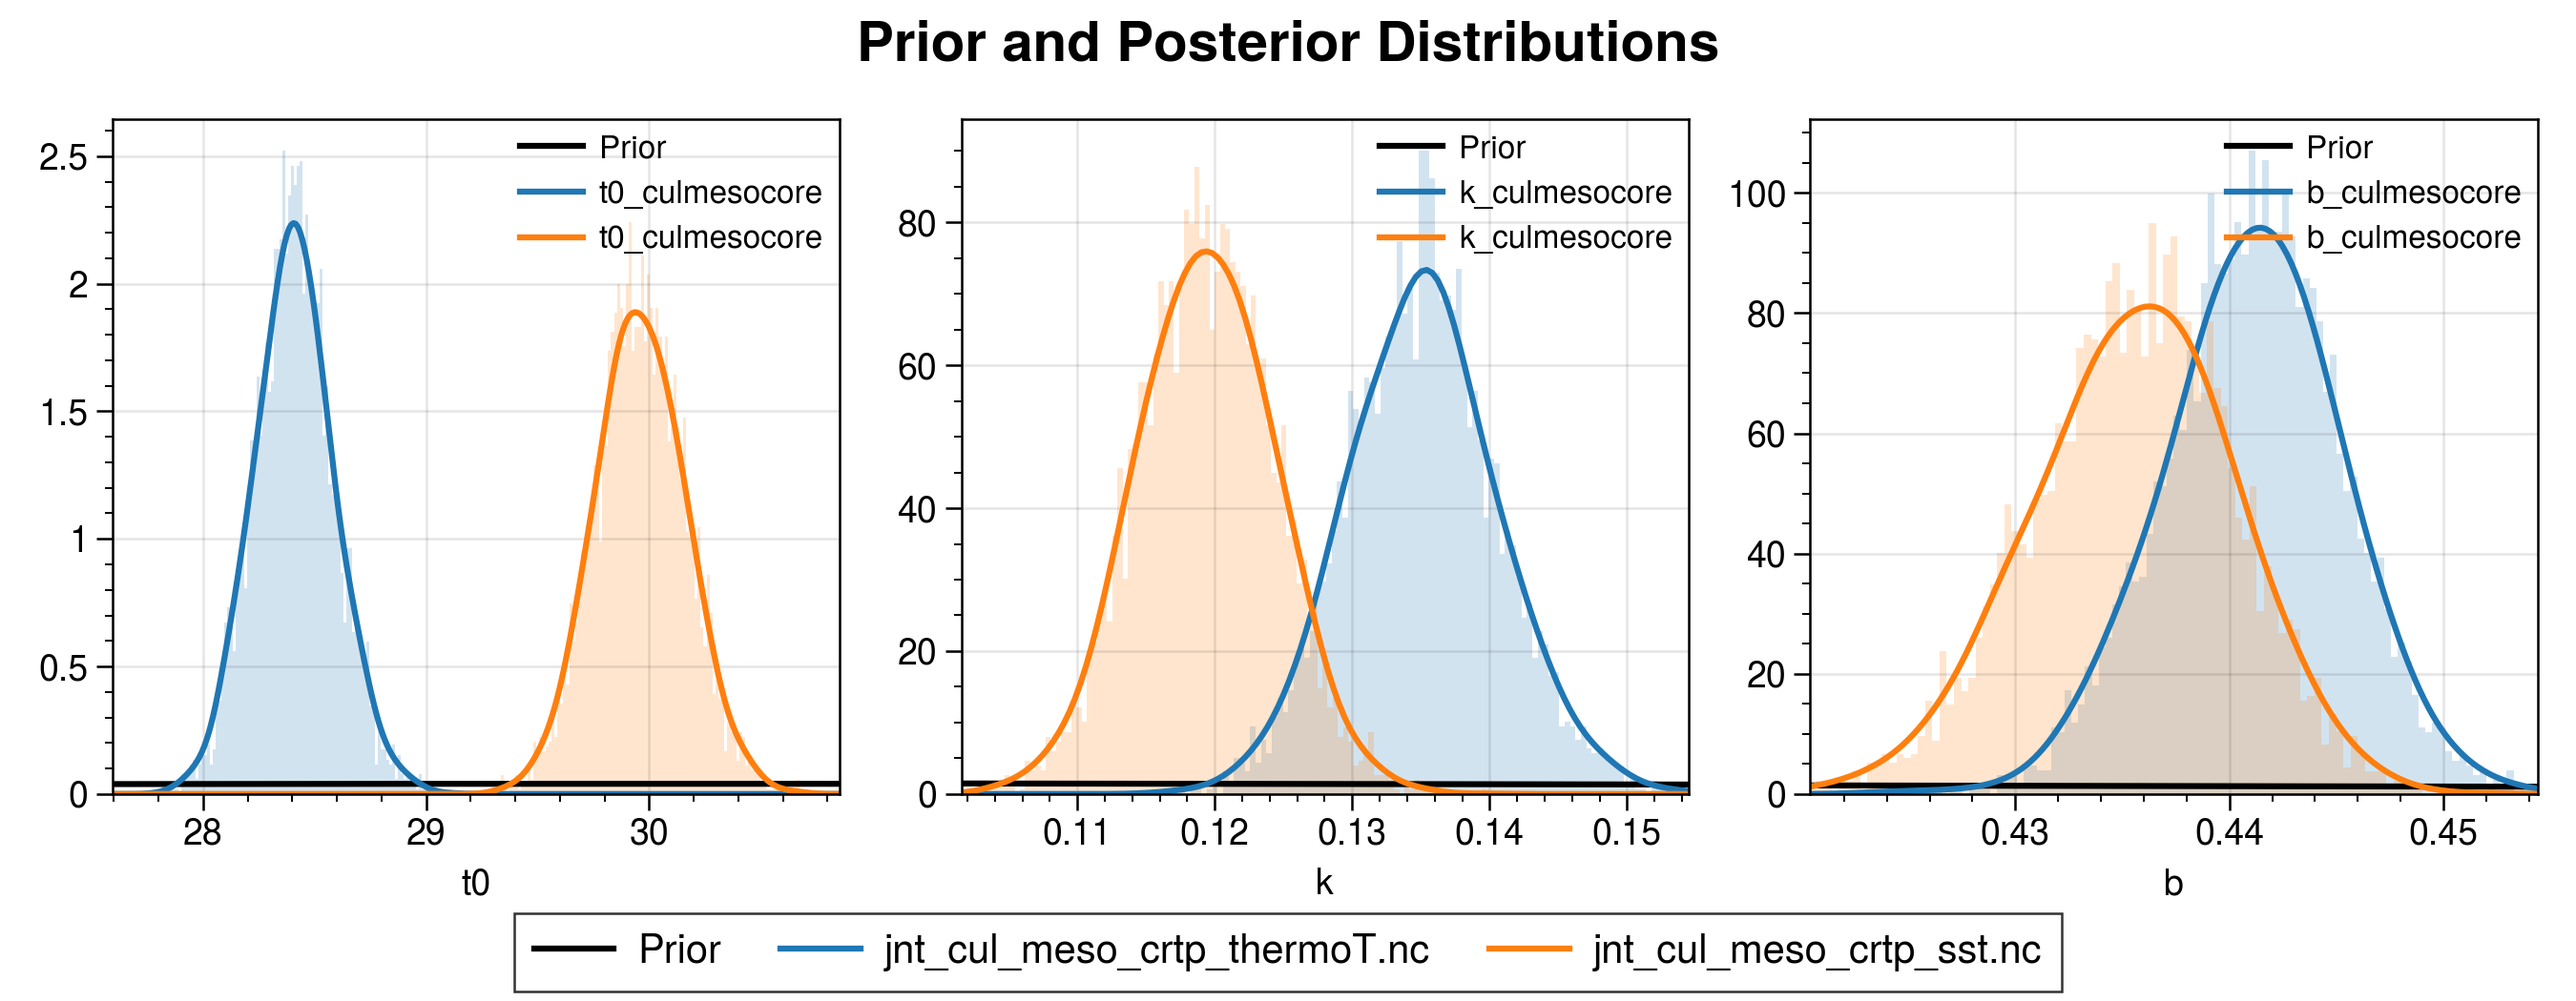
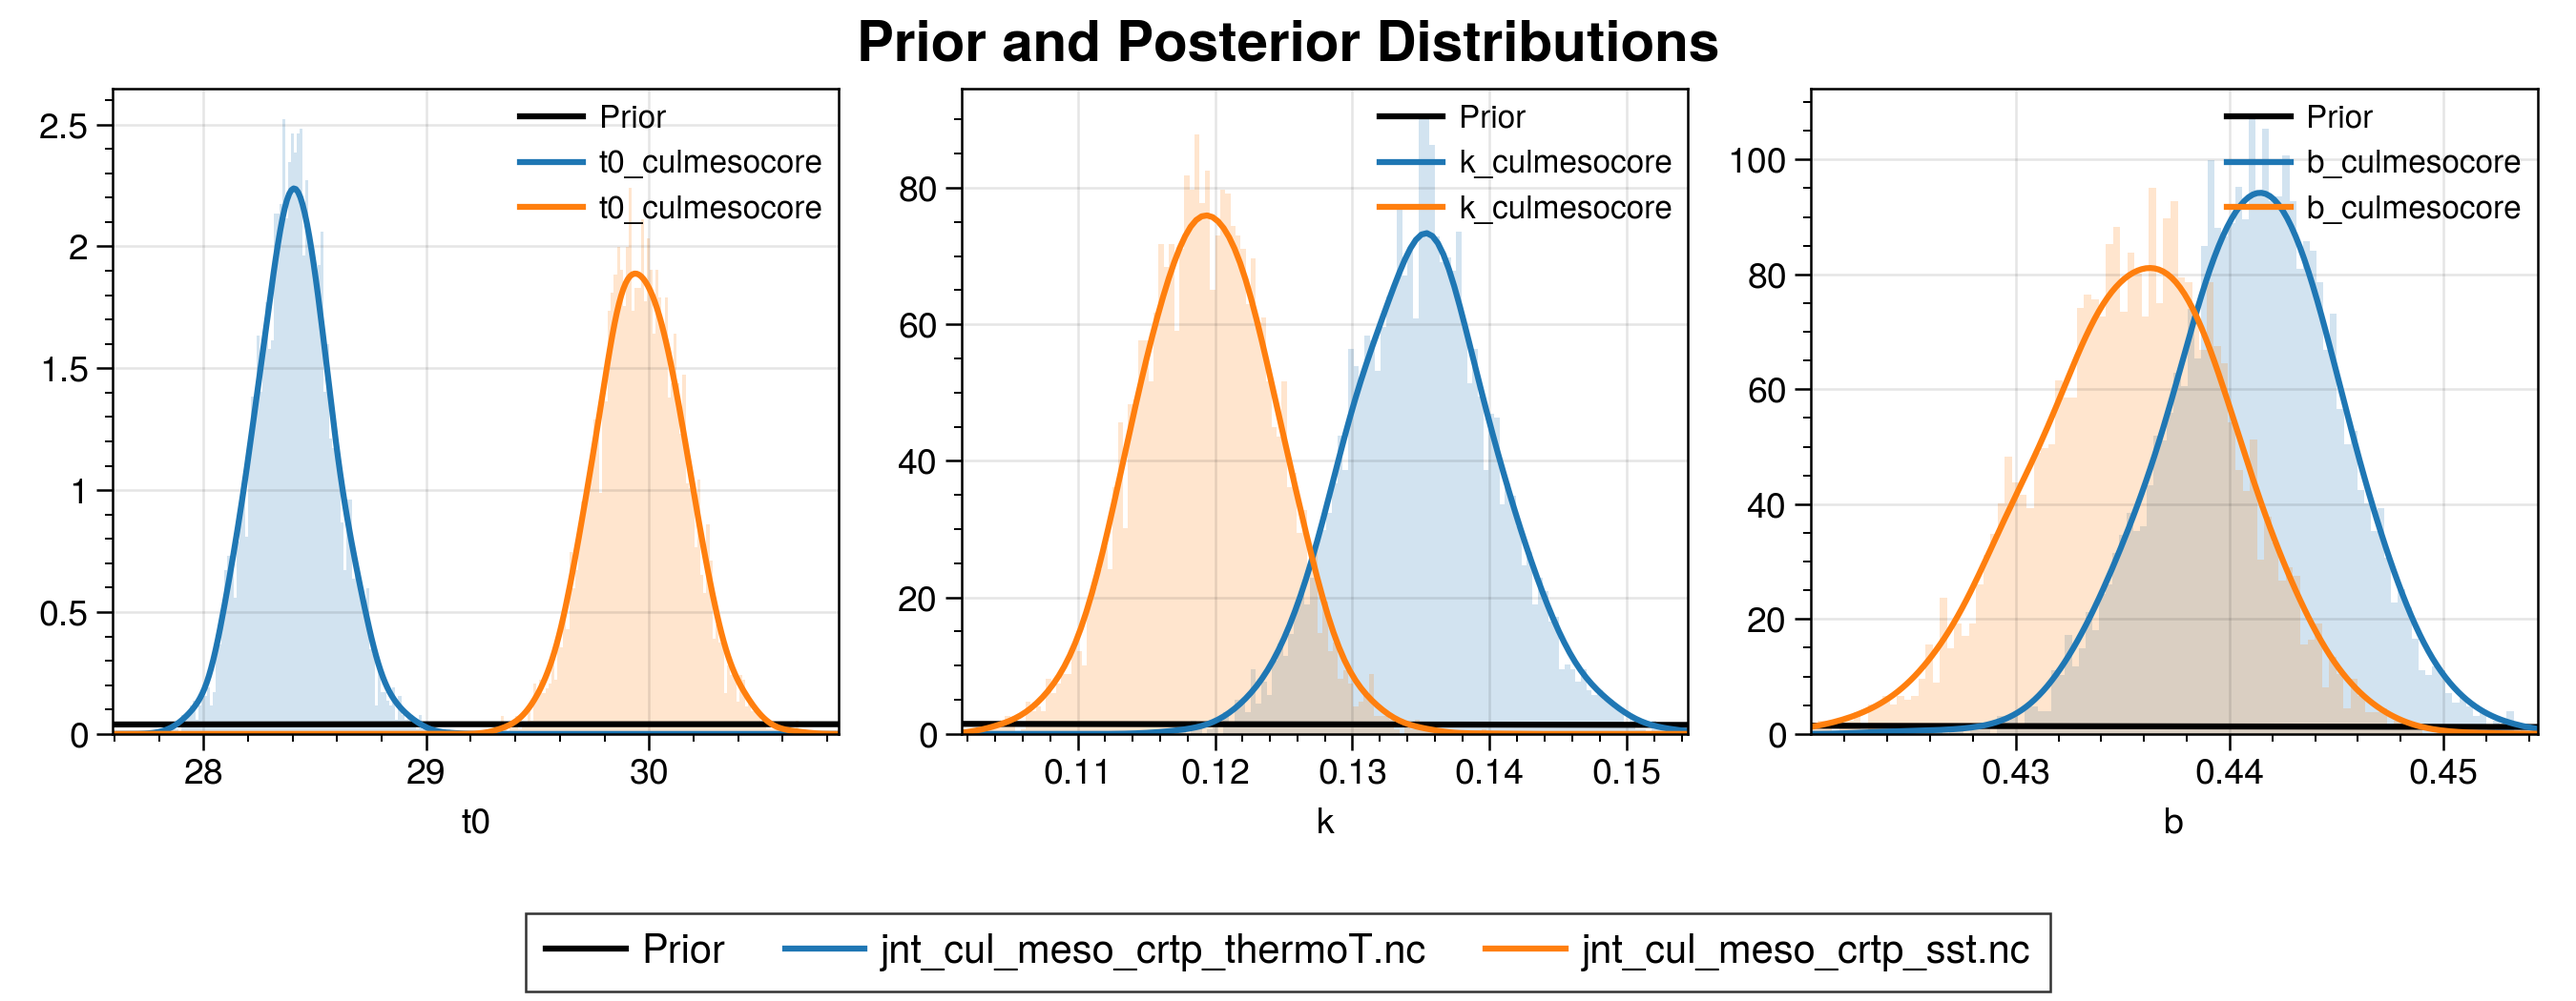
revise generator.py and detection.py

diff --git a/TEXAS/ensemble/detection.py b/TEXAS/ensemble/detection.py
@@ -1,3 +1,5 @@
+# TEXAS/ensemble/detection.py
+
 import xarray as xr
 from ..models.logistics import (
     logistic_fixed_upper,
@@ -9,39 +11,72 @@ from ..models.multivariate import (
 )
 from collections import Counter
 
+# --- Shared suffix utilities ---
+SUFFIX_PRIORITY = ["crtp", "culmesocore", "culmeso", "meso", "cul", "univ", ""]
+
+def available_suffixes(posterior_ds: xr.Dataset, param_basenames):
+    """
+    Return a set of suffixes present for ANY of the given param basenames.
+    Supports both 'base_suffix' and no-suffix ('base') styles.
+    """
+    vars_ = set(posterior_ds.data_vars)
+    suffixes = set()
+    for base in param_basenames:
+        if base in vars_:
+            suffixes.add("")  # no-suffix present
+        prefix = f"{base}_"
+        for v in vars_:
+            if v.startswith(prefix):
+                suffixes.add(v.split(prefix, 1)[1])
+    return suffixes
+
+def choose_suffix(posterior_ds: xr.Dataset, param_basenames, preferred: str | None = None):
+    """
+    Choose a suffix using global priority from SUFFIX_PRIORITY,
+    constrained to suffixes that actually exist for the given basenames.
+    If 'preferred' is supplied, require it to be present.
+    """
+    have = available_suffixes(posterior_ds, param_basenames)
+    if preferred is not None:
+        if preferred in have:
+            return preferred
+        raise ValueError(f"Requested suffix '{preferred}' not found. Available: {sorted(have)}")
+
+    for s in SUFFIX_PRIORITY:
+        if s in have:
+            return s
+    raise ValueError(f"No compatible suffix found. Available: {sorted(have)}")
+
 def detect_model_and_params(posterior_ds: xr.Dataset, suffix: str = None):
     """
     Auto-detect which logistic model and parameters to use.
-    If suffix is None, will guess based on a defined priority order.
+    Uses a shared suffix priority via choose_suffix().
     """
     vars_ = set(posterior_ds.data_vars)
 
-    # Guess suffix if not given
-    if suffix is None:
-        # Define preferred suffix order
-        priority_suffixes = ["crtp", "culmesocore", "culmeso", "meso", "cul", "univ"]
+    # Detect presence of optional parameter groups without assuming attrs
+    has_v_any   = ("v" in vars_) or any(v.startswith("v_") for v in vars_)
+    has_Q_any   = ("Q" in vars_) or any(v.startswith("Q_") for v in vars_)
+    has_gdz_any = ("beta0_gdgt23ratio" in vars_) or any(v.startswith("beta0_gdgt23ratio_") for v in vars_)
+    has_no3_any = ("beta0_no3" in vars_) or any(v.startswith("beta0_no3_") for v in vars_)
 
-        # Gather suffixes present in the dataset
-        available_suffixes = set()
-        for v in vars_:
-            if "_" in v:
-                sfx = v.split("_")[-1]
-                available_suffixes.add(sfx)
+    # Build candidate basenames up-front for suffix selection
+    basenames = ["t0", "b", "k"]
+    if has_v_any and has_Q_any:
+        basenames += ["v", "Q"]
+    if has_gdz_any:
+        basenames += ["beta0_gdgt23ratio"]
+    if has_no3_any:
+        basenames += ["beta0_no3"]
 
-        # Choose the highest-priority available suffix
-        for preferred in priority_suffixes:
-            if preferred in available_suffixes:
-                suffix = preferred
-                break
+    # Choose suffix by priority (or validate preferred)
+    suffix = choose_suffix(posterior_ds, basenames, preferred=suffix)
 
-        if suffix is None:
-            raise ValueError("No recognized parameter suffixes found in posterior_ds")
-
-    # Detect presence of optional parameters
-    has_v   = f"v_{suffix}" in vars_
-    has_Q   = f"Q_{suffix}" in vars_
-    has_gdz = (f"beta0_gdgt23ratio_{suffix}" in vars_) and ("use_gdgt23ratio" in posterior_ds.attrs)
-    has_no3 = f"beta0_no3_{suffix}" in vars_ and ("use_no3" in posterior_ds.attrs)
+    # Now, re-evaluate presence WITH the chosen suffix
+    has_v   = (f"v_{suffix}" in vars_) or (suffix == "" and "v" in vars_)
+    has_Q   = (f"Q_{suffix}" in vars_) or (suffix == "" and "Q" in vars_)
+    has_gdz = (f"beta0_gdgt23ratio_{suffix}" in vars_) or (suffix == "" and "beta0_gdgt23ratio" in vars_)
+    has_no3 = (f"beta0_no3_{suffix}" in vars_) or (suffix == "" and "beta0_no3" in vars_)
 
     # Build param list and select model
     if has_v and has_Q:

diff --git a/TEXAS/ensemble/generator.py b/TEXAS/ensemble/generator.py
@@ -30,33 +30,25 @@ def generate_ensemble(
     if seed is not None:
         np.random.seed(seed)
 
-    # 1) auto-detect suffix if needed
-    if suffix is None:
-        available = list(post_ds.data_vars)
-        counts = {}
-        multi_sufs = {v.split("_")[-1] for v in available if "beta0_" in v}
-        for p in param_names:
-            for var in available:
-                if var.startswith(f"{p}_"):
-                    suf = var.split(f"{p}_",1)[1]
-                    counts[suf] = counts.get(suf, 0) + 1
-        if not counts:
-            raise ValueError(f"Could not auto-detect suffix for {param_names}")
-        # if multivariate, prioritize multi_sufs
-        if multi_sufs and any(p.startswith("beta0_") for p in param_names):
-            for s in multi_sufs:
-                if counts.get(s):
-                    suffix = s
-                    break
-        if suffix is None:
-            suffix = max(counts, key=counts.get)
+    # 1) require suffix from detector or explicit arg
+if suffix is None:
+    raise ValueError(
+        "Suffix must be specified explicitly or via detect_model_and_params()."
+    )
 
-    # 2) build full var names & check
+# 2) build full var names & check
     full_vars = [f"{p}_{suffix}" for p in param_names]
     missing = [v for v in full_vars if v not in post_ds.data_vars]
     if missing:
-        avail = [v for v in post_ds.data_vars if any(v.startswith(f"{p}_") for p in param_names)]
-        raise ValueError(f"Missing parameters {missing}, available: {avail}")
+    expected = full_vars
+    avail = [v for v in post_ds.data_vars if any(v.startswith(f"{p}_") or v == p for p in param_names)]
+    raise ValueError(
+        f"Missing parameters: {missing}. Suffix='{suffix}'.
+"
+        f"Expected: {expected}
+"
+        f"Available (matching): {sorted(avail)}"
+    )
 
     # 3) detect multivariate
     name = model_function.__name__
